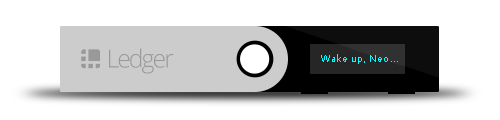
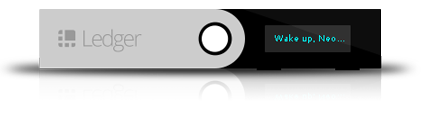
ledger-push

diff --git a/app/components/Ledger.js b/app/components/Ledger.js
@@ -294,6 +294,8 @@ class Ledger extends Component {
         <div id="sendPane">
           <TopBar />
 
+          <div className="ledger-nanos" />
+
           <div className="row dash-panel fadeInDown">
 
             <div className="col-xs-4">
@@ -465,9 +467,7 @@ class Ledger extends Component {
 
         <div className="top-10 center send-notice">
           <p>
-            Please ensure that your Ledger Nano S is plugged in, unlocked and
-            has the NEO app installed. Your NEO address from your Ledger Nano S
-            should appear above. Verify address is correct before sending.
+            Please ensure that your Ledger Nano S is plugged in, unlocked and has the NEO app installed. Your NEO address from your Ledger Nano S should appear above. Verify address is correct before sending. Ledger is a trademark of Ledger SAS, Paris, France. All original owner Copyright and Trademark laws apply.
           </p>
         </div>
       </div>

diff --git a/app/styles/_send.scss b/app/styles/_send.scss
@@ -600,9 +600,9 @@ webview {
 
 .ledger-nanos {
   background: url("../img/ledger_nano_s.png") no-repeat center;
-  width: 380px;
-  height: 69px;
-  margin: 40px auto 20px;
+  width: 420px;
+  height: 120px;
+  margin: 20px auto -50px;
 }
 
 .glyphicon-signal {
